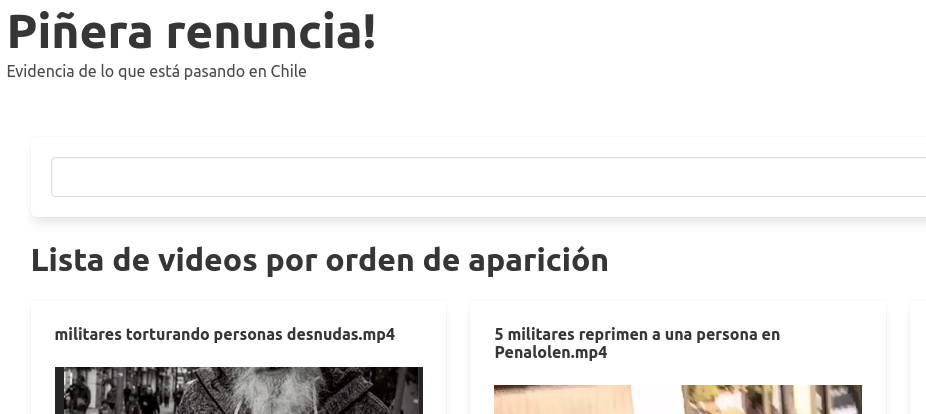
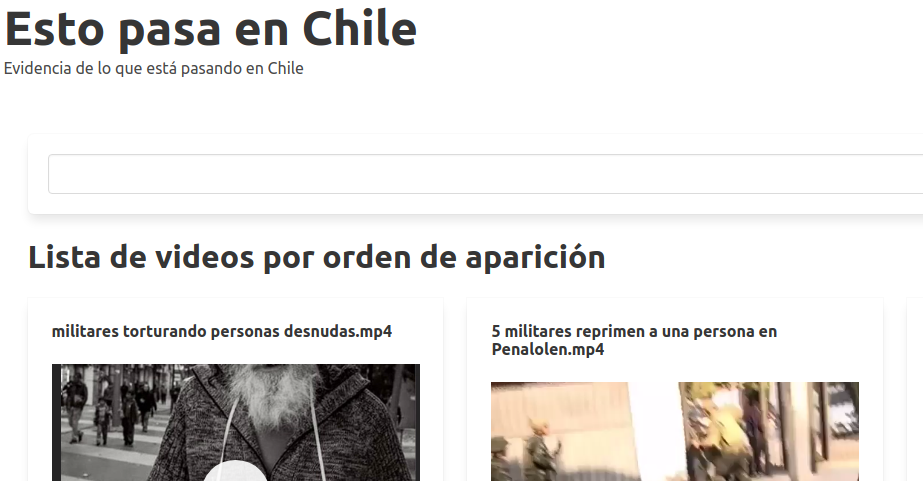
name changed to estopasaenchile

diff --git a/layouts/default.vue b/layouts/default.vue
@@ -6,7 +6,7 @@
           <a class="navbar-item" href="../">
             <div class="columns">
               <div class="column">
-                <p class="title is-1">Pi&ntilde;era renuncia!</p>
+                <p class="title is-1">Esto pasa en Chile</p>
                 <p class="subtitle is-6">Evidencia de lo que est&aacute; pasando en Chile</p>
               </div>
             </div>
@@ -75,7 +75,7 @@
   export default {
     head() {
       return {
-        title: "Piñera renuncia!",
+        title: "Esto pasa en Chile",
         meta: [
           // hid is used as unique identifier. Do not use `vmid` for it as it will not work
           {hid: "charset", charset: "utf-8"},
@@ -85,12 +85,19 @@
             content: "width=device-width, initial-scale=1"
           },
           {
+            hid: "og_title",
+            property: "og:title",
+            content: "Esto pasa en Chile"
+          },
+          {
             hid: "og_description",
-            "og:description": "Evidencia de lo que está pasando en Chile"
+            property: "og:description",
+            content: "Evidencia de lo que está pasando en Chile"
           },
           {
             hid: "og_image",
-            "og:image": require('../assets/images/og_image.png')
+            property: "og:image",
+            content: require('../assets/images/og_image.png')
           }
         ]
       };
